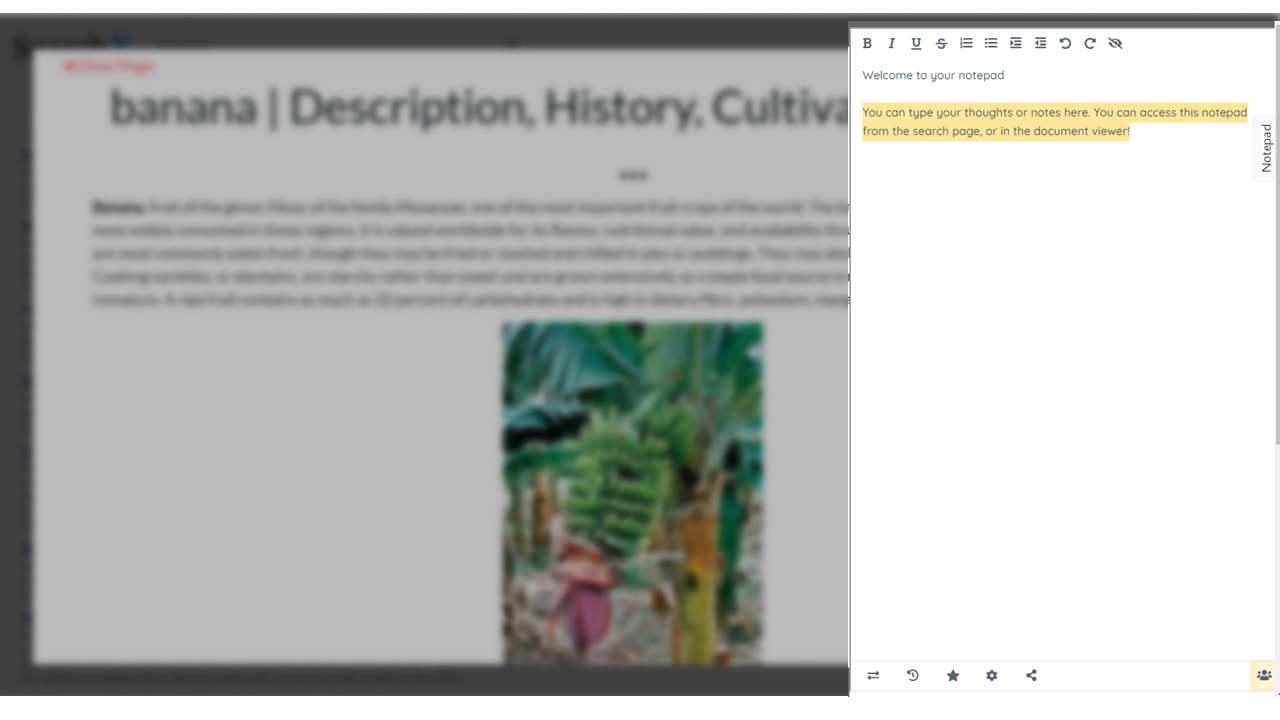
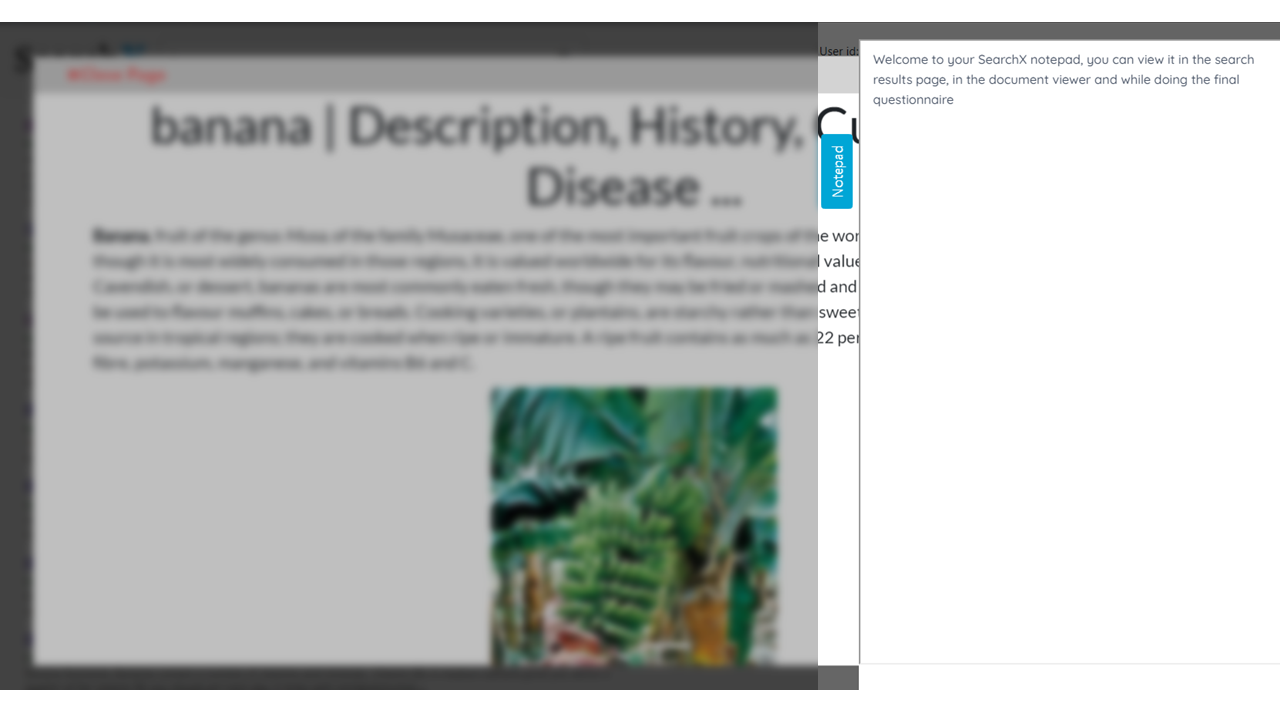
Corrected tutorial images

Changed region(s): [[0.0, 0.0, 1.0, 0.9778], [0.9688, 0.9167, 1.0, 0.9778], [0.7188, 0.9167, 0.7812, 0.9472]]

diff --git a/src/js/app/tasks/example-highlight/Session.js b/src/js/app/tasks/example-highlight/Session.js
@@ -182,7 +182,7 @@ class Session extends React.PureComponent {
             'You can delete each highlight with the corresponding button.',
             'Click here to close the document. You can see the list of your highlights in Your Highlights box.',
             'You can open the Notepad by clicking on the tab on the right. Your highlights will be automatically copied to the notepad.',
-            'This is the Notepad interface where you can write your notes.',
+            'This is the Notepad interface where you can write your notes. Note: highlights are only copied when you close the document',
             'The Notepad can be closed by clicking the tab again.',
             'You can open the Notepad by clicking on the tab on the right.',
             'This is the Notepad interface where you can write your notes.',
